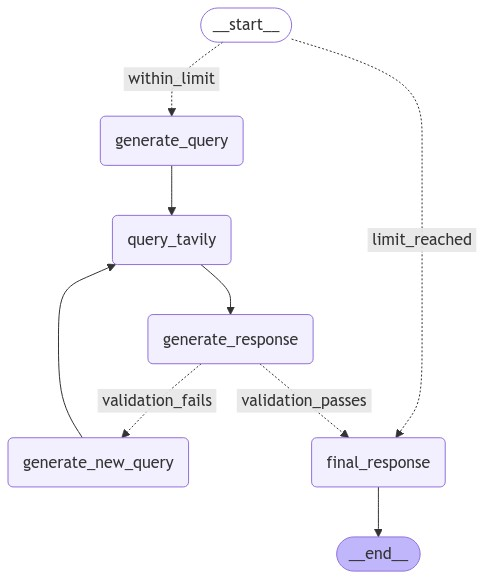
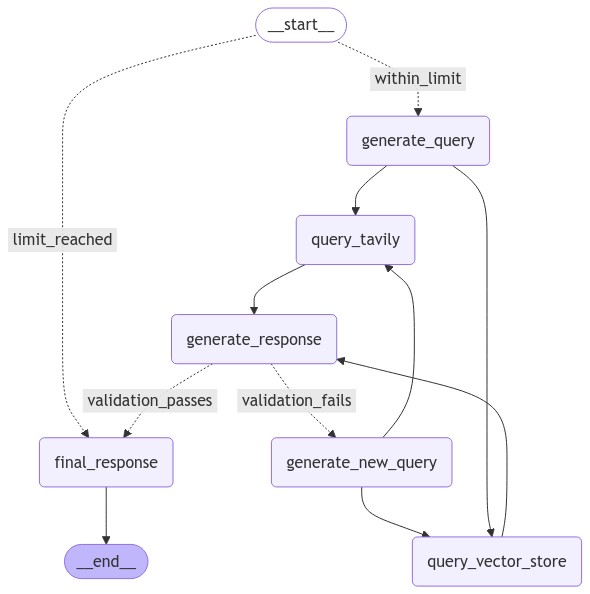
feat: update graph to retrieve results from vector store

diff --git a/researcher/document/document.py b/researcher/document/document.py
@@ -1,0 +1,91 @@
+# utils/document_loader.py
+
+import logging
+from typing import List
+from langchain_community.document_loaders import (
+    PyMuPDFLoader,
+    TextLoader,
+    UnstructuredCSVLoader,
+    UnstructuredExcelLoader,
+    UnstructuredMarkdownLoader,
+    UnstructuredPowerPointLoader,
+    UnstructuredWordDocumentLoader,
+)
+
+logger = logging.getLogger(__name__)
+
+
+class DocumentLoader:
+    def __init__(self, path: str, source: str):
+        """
+        Initializes the DocumentLoader with a file path and source URL.
+        :param path: Path of the file to load.
+        :param source: The source URL or identifier of the file for metadata.
+        """
+        self.path = path
+        self.source = source
+
+    async def load(self) -> List[dict]:
+        """
+        Asynchronously loads documents from the given file path.
+        :return: A list of loaded documents with content and metadata.
+        """
+        file_extension = self.path.split(".")[-1].lower()
+        logger.info(f"Loading document with extension: {file_extension}")
+
+        documents = await self._load_document(file_extension)
+
+        docs = []
+        for page in documents:
+            if page.page_content:
+                docs.append(
+                    {
+                        "raw_content": page.page_content,
+                        "url": self.source,
+                    }
+                )
+
+        if not docs:
+            logger.error("No content was loaded from the document.")
+            raise ValueError("🤷 Failed to load any documents!")
+
+        return docs
+
+    async def _load_document(self, file_extension: str) -> list:
+        """
+        Helper method to load a document based on its file extension.
+        :param file_extension: Extension of the document file.
+        :return: A list of document pages.
+        """
+        loader_dict = {
+            "pdf": PyMuPDFLoader,
+            "txt": TextLoader,
+            "doc": UnstructuredWordDocumentLoader,
+            "docx": UnstructuredWordDocumentLoader,
+            "pptx": UnstructuredPowerPointLoader,
+            "csv": UnstructuredCSVLoader,
+            "xls": UnstructuredExcelLoader,
+            "xlsx": UnstructuredExcelLoader,
+            "md": UnstructuredMarkdownLoader,
+        }
+
+        loader_class = loader_dict.get(file_extension)
+        if loader_class is None:
+            raise ValueError(f"Unsupported file extension: {file_extension}")
+
+        logger.info(
+            f"Using loader {loader_class.__name__} for file extension: {file_extension}"
+        )
+
+        # Load content from the file path
+        try:
+            loader = loader_class(self.path)
+            documents = loader.load()
+            if not documents:
+                logger.error("Loader returned no documents.")
+            return documents
+        except Exception as e:
+            logger.error(
+                f"Failed to load document {self.path} with loader {loader_class.__name__}: {e}"
+            )
+            raise ValueError(f"Failed to load document: {e}")

diff --git a/researcher/store/vectorstore.py b/researcher/store/vectorstore.py
@@ -66,14 +66,12 @@ class Store:
         )
         return text_splitter.split_documents(documents)
 
-    async def asimilarity_search(
-        self, query: str, k: int = 4, filter: Optional[dict] = None
-    ):
+    def similarity_search(self, query: str, k: int = 4, filter: Optional[dict] = None):
         """
         Perform similarity search. Handles both PGEmbedding and default VectorStore types.
         """
         if isinstance(self.vector_store, PGEmbedding):
-            results = await self.vector_store.similarity_search_with_score(
+            results = self.vector_store.similarity_search_with_score(
                 query=query, k=k, filter=filter
             )
         else:
